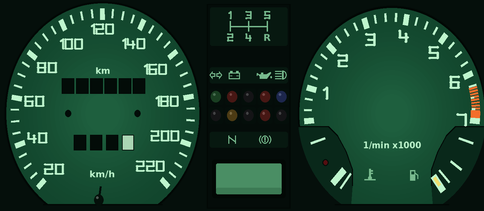
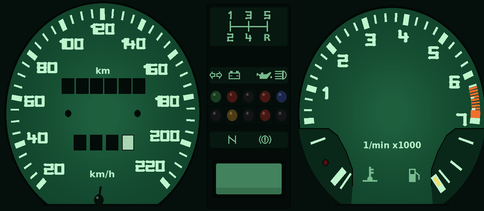
Jornada Sport: cabine em andamento (ainda sem revisão)
Claude-Session: https://claude.ai/code/session_01MLD9VR7gkmY4w6a9beZcp6

diff --git a/src/cockpit.ts b/src/cockpit.ts
@@ -447,6 +447,155 @@ COCKPIT_ART['br-voyage'] = {
 };
 queueMicrotask(() => faceImg(VG_FACE)); // a foto da revista (interiorPhoto) precisa do fundo do quadro já carregado
 
+// Jornada Sport (Voyage Sport 1.8 1992): interior do Victor (tools/ref/voyagesport_cockpit.py, no molde do
+// Jornada LS: painel da arte sem volante, volante de quatro botões da arte com volante, cenário dos vidros e
+// limpadores recortados, porta construída até a borda) e o quadro da foto do carro real
+// (tools/ref/voyagesport_gauges.py): velocímetro redondo 20-220 com os números por dentro das marcações,
+// hodômetro de seis tambores e parcial de quatro; bloco do meio com o esquema das marchas, dez lentes
+// redondas (apagadas na arte) e o relógio de cristal líquido com a hora de verdade; conta-giros 0-7 com
+// temperatura (e o LED vermelho) e combustível em duas janelas em leque embaixo. Ponteiros brancos em barra
+// que passam por cima do eixo (disco preto chapado embaixo), como na foto.
+// O 0-1 do conta-giros é apertado (19,5°) e o resto anda 28,25° por 1000: por isso os ponteiros são
+// desenhados aqui e não por `speed`/`tach`. À noite e no túnel o fundo acende em verde-garrafa escuro
+// (br-voyagesport-cluster-lit por cima do apagado, na medida do escuro da cabine), como no Jornada LS.
+const VS = { x: VG_X(67.5), y: VG_Y(33.3), w: (121 * 464) / 460, h: (52.8 * 128) / 124 }; // placa dos mostradores (voyagesport_gauges.py: 67,5, 33,3, 121 x 52,8)
+const VS_FACE = cp('br-voyagesport-cluster'), VS_LIT = cp('br-voyagesport-cluster-lit'), VS_LAMPS = cp('br-voyagesport-lamps');
+// fenda de uma linha na coluna do quebra-vento (liga os dois lados do vidro do retrovisor, para o jogo achar
+// um vidro só): depois da vista de trás, a coluna é repintada ali (cores da arte; colunas 41 a 50 da
+// linha 26 do painel, que esticada cai na linha 27 da tela)
+const VS_SLIT: [number, number, number][] = [[5, 5, 21], [74, 54, 108], [176, 128, 189], [116, 77, 140], [31, 26, 54], [32, 26, 53], [31, 25, 49], [30, 25, 48], [32, 27, 47], [3, 1, 2]];
+function voyageSportUnder(c: CanvasRenderingContext2D, ox: number, r: Race) {
+  if (!r.def) { // foto da revista (sem corrida): o fundo do quadro entra aqui
+    const im = faceImg(VS_FACE);
+    if (im) c.drawImage(im, ox + VS.x, ART_TOP + VS.y, VS.w, VS.h);
+  }
+  const q = r.def ? Math.round(cabinDark(r) * 20) / 20 : 0; // o mesmo escurecimento da cabine (nightImg)
+  VS_SLIT.forEach(([cr, cg, cb], i) => {
+    c.fillStyle = `rgb(${Math.round(cr * (1 - q) + 4 * q)},${Math.round(cg * (1 - q) + 4 * q)},${Math.round(cb * (1 - q) + 14 * q)})`;
+    c.fillRect(ox - DASH_PAD + 41 + i, ART_TOP + 27, 1, 1);
+  });
+}
+// ângulo de cada escala (graus), como no mostrador desenhado
+const vsSpeedA = (kmh: number) => 135 + (clamp(kmh, 17, 226) - 20) * (269.4 / 200);
+const vsTachA = (k: number) => (k <= 1 ? 175.5 + 19.5 * Math.max(0, k) : 195 + (Math.min(7.15, k) - 1) * 28.25);
+// lentes do bloco do meio (colunas e linhas da arte) e janelas em leque dos pequenos (em raios do conta-giros)
+const VS_LAMP_X = [121.45, 125.55, 129.65, 133.75, 137.85], VS_LAMP_Y = [57.5, 62.2];
+const VS_WELL: [number, number][] = [[-1.2, 0.15], [-0.72, 0.15], [-0.62, 0.22], [-0.52, 0.38], [-0.45, 0.56], [-0.45, 0.72], [-0.49, 1.2], [-1.2, 1.2]];
+// algarismos de cristal líquido (sete segmentos: a em cima, b/c à direita, d embaixo, e/f à esquerda, g no meio)
+const VS_SEG = ['abcdef', 'bc', 'abged', 'abgcd', 'fgbc', 'afgcd', 'afgedc', 'abc', 'abcdefg', 'abfgcd'];
+function vsLcdDigit(c: CanvasRenderingContext2D, x: number, y: number, w: number, h: number, d: number) {
+  const t = 0.5, s = VS_SEG[d], hh = (h - t) / 2;
+  if (s.includes('a')) c.fillRect(x + 0.15, y, w - 0.3, t);
+  if (s.includes('g')) c.fillRect(x + 0.15, y + hh, w - 0.3, t);
+  if (s.includes('d')) c.fillRect(x + 0.15, y + h - t, w - 0.3, t);
+  if (s.includes('f')) c.fillRect(x, y + 0.15, t, hh + t - 0.3);
+  if (s.includes('b')) c.fillRect(x + w - t, y + 0.15, t, hh + t - 0.3);
+  if (s.includes('e')) c.fillRect(x, y + hh + 0.15, t, hh + t - 0.3);
+  if (s.includes('c')) c.fillRect(x + w - t, y + hh + 0.15, t, hh + t - 0.3);
+}
+function voyageSportCluster(c: CanvasRenderingContext2D, ox: number, r: Race) {
+  const art = COCKPIT_ART['br-voyagesport'];
+  const X = (x: number) => ox + VG_X(x), Y = (y: number) => ART_TOP + VG_Y(y); // medidas da arte -> tela
+  const k = r.def ? Math.min(1, cabinDark(r) / 0.6) : 0;
+  const sm = c.imageSmoothingEnabled;
+  c.imageSmoothingEnabled = true;
+  if (k > 0.02) {
+    const im = faceImg(VS_LIT);
+    if (im) {
+      c.globalAlpha = k;
+      c.drawImage(im, ox + VS.x, ART_TOP + VS.y, VS.w, VS.h);
+      c.globalAlpha = 1;
+    }
+  }
+  // luzes-espia (apagadas na arte). Em cima: setas (verde, com o relé; pisca-alerta na batida), bateria,
+  // (cega), óleo e farol alto (azul, à noite). Embaixo: (cega), afogador (amarela, fica apagada),
+  // (cega), freio de mão (parado sem acelerar), (cega). Bateria e óleo com o motor parado; óleo também no motor batido
+  const off = r.rpm < 0.05, crash = r.state === 'crash';
+  const on = [(r.signal !== 0 || crash) && blinkOn(), off, false, off || r.damage > 0.6 || crash, !!r.def?.night, false, false, false, r.speed < 1 && !r.throttle, false];
+  const lamps = on.some(Boolean) ? faceImg(VS_LAMPS) : null;
+  if (lamps) {
+    const kx = lamps.naturalWidth / 20.9, ky = lamps.naturalHeight / 52.8;
+    on.forEach((lit, i) => {
+      if (!lit) return;
+      const x = VS_LAMP_X[i % 5] - 2.05, y = VS_LAMP_Y[i < 5 ? 0 : 1] - 2.35; // casa de cada lente, com o clarão
+      c.drawImage(lamps, (x - 119.2) * kx, (y - 33.3) * ky, 4.1 * kx, 4.7 * ky, X(x), Y(y), X(x + 4.1) - X(x), Y(y + 4.7) - Y(y));
+    });
+  }
+  c.imageSmoothingEnabled = sm;
+  // tambores do hodômetro (seis) e do parcial (quatro, com décimos: o último é branco de algarismo vermelho)
+  const km = r.track ? Math.max(0, ((r.playerZ - r.track.startZ) * KMH) / 3600) : 0;
+  const drums = (v: number, n: number, cx: number, cy: number, pitch: number, last: boolean) => {
+    const s = String(Math.floor(v) % 10 ** n).padStart(n, '0');
+    for (let i = 0; i < n; i++) pix(c, s[i], X(cx + (i - (n - 1) / 2) * pitch), Y(cy), last && i === n - 1 ? (k > 0.3 ? '#7a1c14' : '#c02a1c') : k > 0.3 ? '#bef5cd' : '#dcdfd4', 0.5);
+  };
+  drums(60940 + km, 6, 93.4, 54.84, 3.55, false);
+  drums((416.4 + km) * 10, 4, 93.5, 69.01, 4.0, true);
+  // relógio de cristal líquido: a hora de verdade, algarismos escuros de sete segmentos
+  const now = new Date();
+  const hm = `${now.getHours()}:${String(now.getMinutes()).padStart(2, '0')}`;
+  const dw = 2.3, dh = 5.0, gap = 1.0, colon = 1.3;
+  let lx = X(129.65) - ((hm.length - 1) * (dw + gap) - gap + colon + gap) / 2;
+  const ly = Y(78.0) - dh / 2;
+  c.fillStyle = k > 0.3 ? '#06180e' : '#1c2418';
+  for (const ch of hm) {
+    if (ch === ':') {
+      c.fillRect(lx + 0.35, ly + dh * 0.28, 0.6, 0.6);
+      c.fillRect(lx + 0.35, ly + dh * 0.66, 0.6, 0.6);
+      lx += colon + gap;
+    } else {
+      vsLcdDigit(c, lx, ly, dw, dh, Number(ch));
+      lx += dw + gap;
+    }
+  }
+  // temperatura e combustível: o eixo fica escondido atrás da máscara do meio, só a ponta aparece na janela em leque
+  const tx = 165.5, ty = 61.7, R = 22;
+  for (const side of [-1, 1]) {
+    const v = clamp(side < 0 ? gauges.water : gauges.fuel, -0.05, 1.08);
+    const a = side < 0 ? 121 + 54.4 * v : 59 - 54.4 * v;
+    c.save();
+    c.beginPath();
+    VS_WELL.forEach(([wx, wy], i) => (i ? c.lineTo(X(tx - side * wx * R), Y(ty + wy * R * PIX_Y)) : c.moveTo(X(tx - side * wx * R), Y(ty + wy * R * PIX_Y))));
+    c.closePath();
+    c.clip();
+    fineNeedle(c, X(tx + side * 0.3816 * R), Y(ty + 0.2385 * R * PIX_Y), 7.6, a * VG_DEG, 1.0, art.needle, art.hub, 0, 0);
+    c.restore();
+  }
+  // LED vermelho da temperatura (motor quente)
+  if (gauges.water > 0.66) {
+    c.fillStyle = '#ff3a26';
+    c.beginPath(); c.ellipse(X(148.9), Y(74.0), 0.7, 0.7 * PIX_Y, 0, 0, Math.PI * 2); c.fill();
+    c.save();
+    c.globalCompositeOperation = 'lighter';
+    drawGlow(c, X(148.9), Y(74.0), 3, 3, '255,60,40', 0.5, GLOW_STOPS);
+    c.restore();
+  }
+  // velocímetro (descansa no 20, como na foto) e conta-giros (giro de verdade do motor do carro)
+  needle(c, X(93.2) - 0.5, Y(61.7) - 0.5, 22.6, vsSpeedA(Math.max(19, r.speed * KMH)) * VG_DEG, art);
+  let red = r.car.engine ? redlines.get(r.car.id) : 6400; // foto da revista: carro sem ficha
+  if (!red) redlines.set(r.car.id, red = engineSpec(r.car.engine, r.car.id).redline);
+  needle(c, X(165.5) - 0.5, Y(61.7) - 0.5, 21.4, vsTachA((Math.min(1, r.rpm) * red * (r.car.soundMods?.rev ?? 1)) / 1000) * VG_DEG, art);
+  // clarão verde do quadro aceso
+  if (k > 0.02) {
+    c.save();
+    c.globalCompositeOperation = 'lighter';
+    for (const gx of [93, 130, 166]) drawGlow(c, X(gx), Y(60), 44, 32, '60,170,110', 0.05 * k, GLOW_STOPS);
+    c.restore();
+  }
+}
+COCKPIT_ART['br-voyagesport'] = {
+  tells: null,
+  dash: cp('br-voyagesport-dash'), top: cp('br-voyagesport-top'), wheel: cp('br-voyagesport-wheel'),
+  glass: { at: [64, 115], thr: 256 }, // retrovisor esquerdo (vidro transparente na arte, dos dois lados da coluna do quebra-vento)
+  pivot: [128, 104], wheelTop: 16, wheelDx: 2, wheelDy: 3, // o volante acompanha o quadro (o painel esticado cai 2 colunas à direita e 3 linhas abaixo)
+  pod: { x: -25.5, y: -62, r: 7.5, dx: 5.4, dy: 17.5, pillar: '#211f29', face: 'black', bezel: 'black', lit: 'green' }, radar: [226, 21], // relógios na coluna, rentes ao friso (medido no topo da arte)
+  speedMax: 220, needle: '#f1eedd', needleW: 1.15, needleTail: 3.0, needleFine: true, needleTip: 0.46, hubUnder: true, hub: '#2b2b2e', hubR: 2.5,
+  faces: [{ src: VS_FACE, x: VS.x, y: VS.y, w: VS.w, h: VS.h }],
+  glow: '60,170,110', glowK: 0.5,
+  aux: [],
+  under: voyageSportUnder, extra: voyageSportCluster,
+};
+queueMicrotask(() => faceImg(VS_FACE)); // a foto da revista (interiorPhoto) precisa do fundo do quadro já carregado
+
 // Onça GTB: mostradores pretos com números âmbar e ponteiros laranja — velocímetro 20-220 com
 // hodômetro e parcial, conta-giros 0-7 (faixa vermelha a partir de 5, do seis-cilindros 4.1),
 // combustível no pequeno da esquerda (o da direita, atrás do aro, é o da arte) e, no console (tela larga), pressão

diff --git a/tools/ref/voyagesport_gauges.py b/tools/ref/voyagesport_gauges.py
@@ -49,14 +49,14 @@ LENS = [[(60, 200, 90), (235, 50, 40), None, (235, 50, 40), (70, 110, 255)], [No
 # marcas dos pequenos, em graus em volta do centro do conta-giros
 TEMP_HOT, TEMP_LED, TEMP_COLD, TEMP_MIN = 162.0, 147.0, 134.0, 128.0
 FUEL_FULL, FUEL_HALF, FUEL_LOW, FUEL_RES = 18.0, 35.5, 46.5, 53.0
-DAY = dict(plate=(40, 40, 42), edge=(12, 12, 14), face=(21, 21, 23), face2=(15, 15, 17), well=(8, 8, 10), ink=(226, 232, 214),
+DAY = dict(plate=(40, 40, 42), edge=(12, 12, 14), face=(25, 25, 27), face2=(17, 17, 19), well=(8, 8, 10), ink=(226, 232, 214),
            band=(240, 120, 30), dark=(7, 7, 9), cell=(17, 17, 19), strip=(24, 24, 26), icon=(214, 218, 206), text=(206, 212, 198),
            lcd=(170, 180, 152), lcd2=(150, 160, 134), knob=(16, 16, 18), amber=(240, 200, 60), drum=(10, 10, 12), white=(226, 226, 216))
 # aceso: verde-garrafa profundo, mais claro no centro de cada mostrador (luz por trás de um difusor);
 # o que brilha são os números, as marcações e os letreiros (verde-claro quase branco)
 LIT = dict(plate=(5, 15, 11), edge=(2, 8, 5), face=(18, 70, 45), face2=(14, 56, 36), core=(30, 95, 62), well=(9, 40, 26), ink=(190, 245, 205),
            band=(244, 110, 44), dark=(3, 12, 8), cell=(4, 14, 10), strip=(7, 24, 16), icon=(120, 186, 142), text=(190, 245, 205),
-           lcd=(74, 142, 100), lcd2=(60, 122, 84), knob=(4, 16, 10), amber=(240, 222, 110), drum=(3, 12, 8), white=(170, 214, 180))
+           lcd=(66, 130, 92), lcd2=(54, 112, 78), knob=(4, 16, 10), amber=(240, 222, 110), drum=(3, 12, 8), white=(170, 214, 180))
 
 
 def P(x, y):
@@ -78,7 +78,7 @@ def tick(d, g, ang, r0, r1, w, col):
     d.polygon(pts, fill=col)
 
 
-def number(im, s, cx, cy, h, col, wide=1.0, stroke=1.3, gap=6.0):
+def number(im, s, cx, cy, h, col, wide=1.0, stroke=1.9, gap=6.5):
     """número com os algarismos quadrados da fábrica, centrado em (cx, cy) (colunas, linhas); h em colunas"""
     u = h * K / (6 + stroke)
     t = u * stroke
@@ -185,7 +185,7 @@ def a_tach(v):
 
 
 # janelas em leque dos pequenos (em raios do conta-giros, a partir do centro; a da direita é espelhada)
-WELL = [(-1.2, 0.13), (-0.72, 0.13), (-0.62, 0.22), (-0.52, 0.38), (-0.45, 0.56), (-0.45, 0.72), (-0.49, 1.2), (-1.2, 1.2)]
+WELL = [(-1.2, 0.15), (-0.72, 0.15), (-0.62, 0.22), (-0.52, 0.38), (-0.45, 0.56), (-0.45, 0.72), (-0.49, 1.2), (-1.2, 1.2)]
 
 
 def ico_pump(d, cx, cy, u, col, bg):
@@ -237,7 +237,7 @@ def tach(im, pal):
     tick(d, g, FUEL_LOW, R * 0.78, R * 0.95, 0.45, pal['ink'])
     tick(d, g, FUEL_RES, R * 0.78, R * 0.97, 1.5, pal['ink'])
     tick(d, g, FUEL_RES, R * 0.80, R * 0.90, 0.7, pal['amber'])
-    u = K * 0.62
+    u = K * 0.8
     cx, cy = P(g['x'] - 0.25 * R, g['y'] + 0.62 * R * PY)
     ico_temp(d, cx, cy, u, pal['icon'])
     cx, cy = P(g['x'] + 0.25 * R, g['y'] + 0.62 * R * PY)
